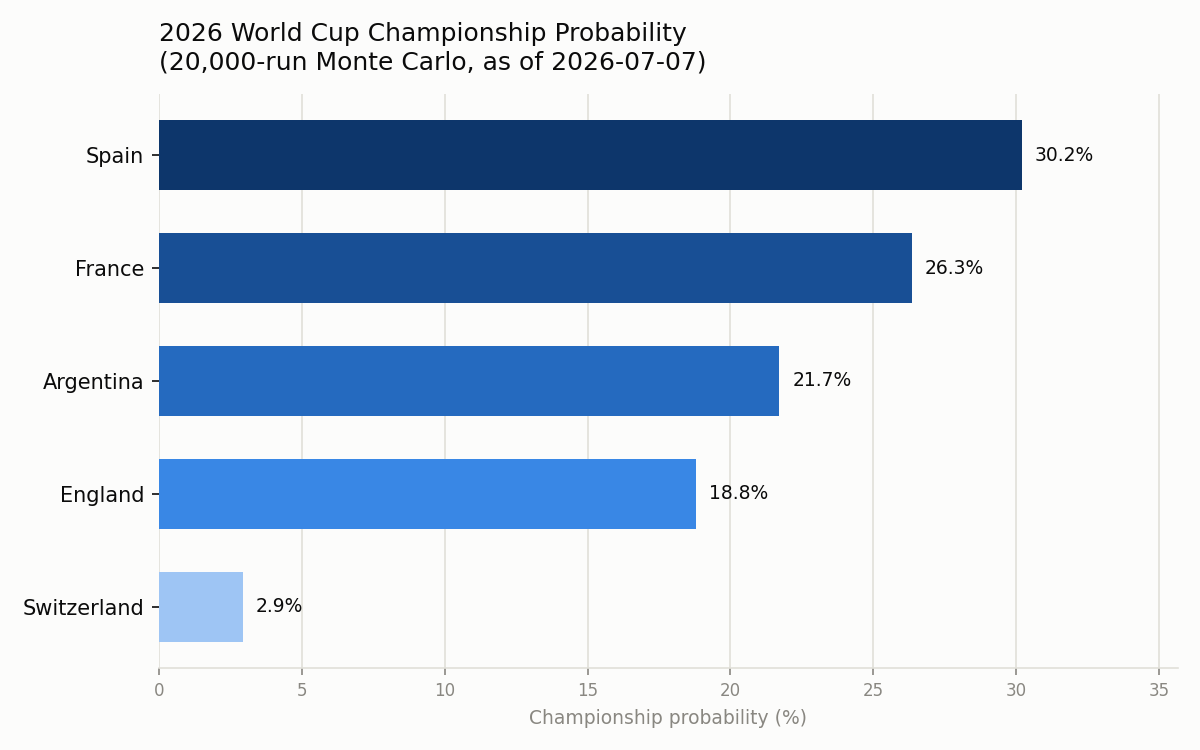
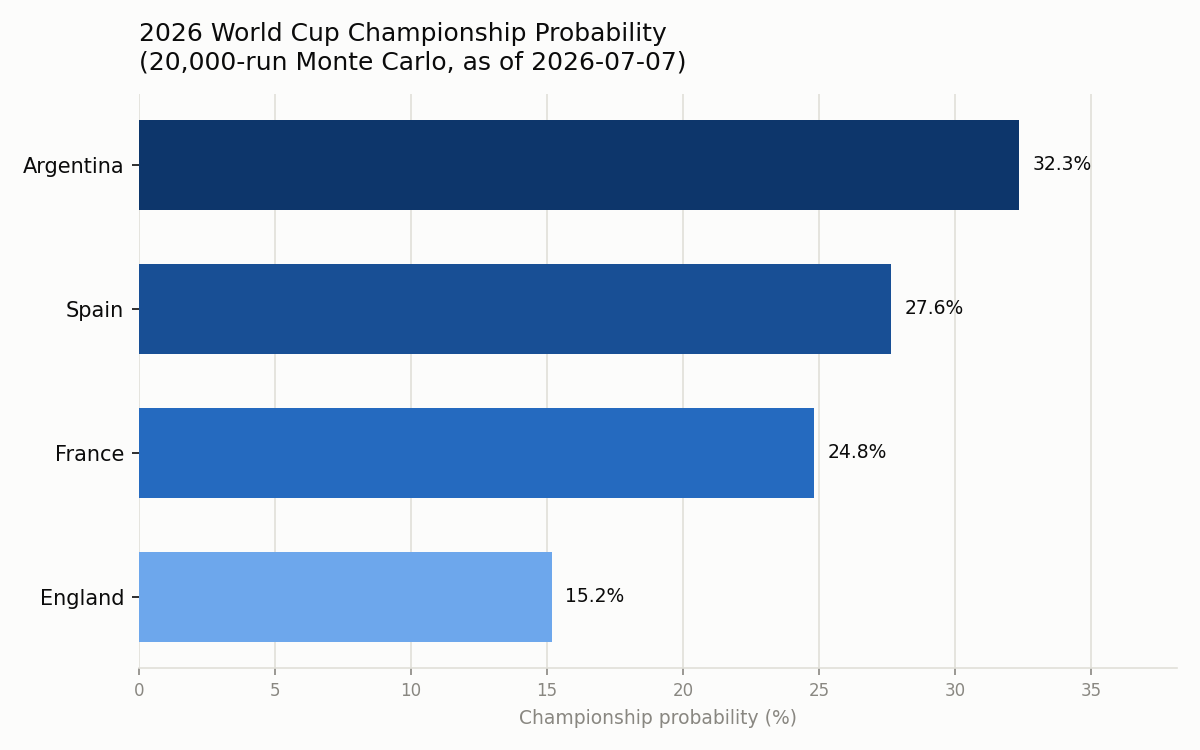
Argentina beats Switzerland 3-1 (aet), semifinals fully set
Patches in the last quarterfinal result (Alvarez and Lautaro in extra
time after Ndoye's equalizer for ten-man Switzerland), retrains,
re-runs backtest/simulation, regenerates both charts. All four
quarterfinals confirmed and the model went 4-for-4 on them.
Semifinals: France vs Spain (Jul 14), England vs Argentina (Jul 15).
Argentina now leads the championship table at 32.3% and also wins the
most-likely-bracket walk.

diff --git a/src/simulate.py b/src/simulate.py
@@ -8,17 +8,18 @@ FIFA.com, CNN, and Al Jazeera. Status as of this run (2026-07-11):
   QF1 (Boston,  Jul 9):  France 2-0 Morocco -- DONE, France advances
   QF2 (LA,      Jul 10): Spain 2-1 Belgium  -- DONE, Spain advances
   QF3 (Miami,   Jul 11): England 2-1 Norway (aet) -- DONE, England advances
-  QF4 (KC,      Jul 11/12): Argentina vs Switzerland -- pending
+  QF4 (KC,      Jul 11): Argentina 3-1 Switzerland (aet) -- DONE, Argentina advances
 
-  SF1 (Dallas,   Jul 14): France vs Winner QF2
-  SF2 (Atlanta,  Jul 15): Winner QF3 vs Winner QF4
+  SF1 (Dallas,   Jul 14): France vs Spain
+  SF2 (Atlanta,  Jul 15): England vs Argentina
 
   Final (East Rutherford, Jul 19): Winner SF1 vs Winner SF2
 
 A "slot" below is either a confirmed team name (a string) or a match still to
 be played (a tuple of two team names). Confirmed slots skip straight through;
 pending slots get a coin flip using the model's win probability each
-simulation run.
+simulation run. Both semifinal matchups are now confirmed, so the only
+remaining randomness is who wins each actual semifinal and the final.
 
 For a knockout match with no replay, a draw isn't a valid final outcome (it
 goes to extra time/penalties). We convert the model's 3-way (home/draw/away)
@@ -42,7 +43,7 @@ N_SIMULATIONS = 20000
 RNG_SEED = 42
 
 SF1_SLOTS = ["France", "Spain"]
-SF2_SLOTS = ["England", ("Argentina", "Switzerland")]
+SF2_SLOTS = ["England", "Argentina"]
 
 
 def pending_matches(slots):
@@ -122,7 +123,7 @@ def most_likely_bracket(probs):
             "France vs Morocco": {"winner": "France", "confidence": 1.0, "status": "confirmed"},
             "Spain vs Belgium": {"winner": "Spain", "confidence": 1.0, "status": "confirmed"},
             "England vs Norway": {"winner": "England", "confidence": 1.0, "status": "confirmed"},
-            "Argentina vs Switzerland": {"winner": qf4_winner, "confidence": round(qf4_conf, 3), "status": "predicted"},
+            "Argentina vs Switzerland": {"winner": "Argentina", "confidence": 1.0, "status": "confirmed"},
         },
         "semifinals": {
             f"France vs Spain": {"winner": sf1_winner, "confidence": round(sf1_conf, 3)},

diff --git a/src/load_data.py b/src/load_data.py
@@ -32,6 +32,12 @@ Sources for patched results (cross-checked across 2+ independent outlets each):
   England 2-1 Norway (aet)   - ESPN, FIFA.com, Al Jazeera, NPR, NBC News
                                 (2026-07-11); Bellingham scores in extra time
                                 to send England through
+  Argentina 3-1 Switzerland  - ESPN, FIFA.com, Al Jazeera, Yahoo Sports
+  (aet)                        (2026-07-11); Alvarez and Lautaro score in
+                                extra time after Ndoye equalized and
+                                Switzerland went down to ten men (Embolo
+                                red card); Argentina advances to face
+                                England in the semifinal
 """
 import pandas as pd
 
@@ -48,6 +54,7 @@ KNOWN_2026_RESULT_PATCHES = [
     ("2026-07-09", "France", "Morocco", 2, 0),
     ("2026-07-10", "Spain", "Belgium", 2, 1),
     ("2026-07-11", "England", "Norway", 2, 1),
+    ("2026-07-11", "Argentina", "Switzerland", 3, 1),
 ]
 
 # Round of 16 matches decided on penalties: (date, home_team, away_team, shootout_winner).

diff --git a/README.md b/README.md
@@ -11,31 +11,35 @@ real results come in, so you can watch the model get graded live instead of
 taking my word for it. No quietly editing the predictions after the fact —
 whatever it said before kickoff is what's on the record.
 
-## Where things stand right now (last updated July 12, 2026)
+## Where things stand right now (last updated July 13, 2026)
 
 The Round of 16 is done. All 16 matches played, including two nail-biters:
 Argentina came back from 2-0 down to beat Egypt 3-2, and Switzerland needed
 penalties to get past Colombia after 120 scoreless minutes.
 
-Three quarterfinals are done. **France beat Morocco 2-0** in Boston, Mbappé
-and Dembélé with the goals. **Spain beat Belgium 2-1** in Los Angeles, Mikel
-Merino settling it with an 88th-minute rebound. Then **England beat Norway
-2-1 after extra time** in Miami: Andreas Schjelderup put Norway ahead, Jude
-Bellingham equalized before half-time, and Bellingham struck again in the
-third minute of extra time off a rebounded long-range strike to send England
-through. Three of four semifinalists are set: France, Spain, and England.
+All four quarterfinals are done, and the semifinals are set. **France beat
+Morocco 2-0** in Boston, Mbappé and Dembélé with the goals. **Spain beat
+Belgium 2-1** in Los Angeles, Mikel Merino settling it with an 88th-minute
+rebound. **England beat Norway 2-1 after extra time** in Miami on a
+Bellingham brace, the winner arriving in the third minute of extra time.
+Then **Argentina beat Switzerland 3-1**, also after extra time: Mac Allister
+headed Argentina in front early, Ndoye equalized for ten-man Switzerland
+(Breel Embolo saw red on the hour), and Julian Álvarez and Lautaro Martínez
+put it away in extra time.
 
-The model called all three before kickoff: France 63.6%, Spain 64.4%,
-England 61.4%. No shocks yet.
+The model called all four before kickoff: France 63.6%, Spain 64.4%, England
+61.4%, Argentina 72.8%. Four for four, no shocks yet — the underdogs kept it
+close, but chalk held every single time.
 
-One quarterfinal left:
+The semifinal lineup, July 14-15:
 
-- **Argentina vs Switzerland**, July 11 or 12, Kansas City
+- **France vs Spain**, Dallas, July 14
+- **England vs Argentina**, Atlanta, July 15
 
 Everything below reflects that state. A scheduled job re-runs this whole
-project once the rest of the quarterfinals wrap up, again after the
-semifinals, and once more after the final, so the numbers keep catching up
-to reality without me manually babysitting it.
+project once the semifinals wrap up, and once more after the July 19 final,
+so the numbers keep catching up to reality without me manually babysitting
+it.
 
 ## Most likely bracket
 
@@ -49,7 +53,7 @@ odds overall" (that's further down). This one just walks the bracket picking
 the favorite at each stage and follows it all the way to the final — no
 hedging, no maybes, just "if chalk holds, here's your winner." See the
 championship probability section below for why the two questions can point
-at different teams. Right now they happen to agree, which won't last.
+at different teams. Right now they happen to agree, on Argentina.
 
 ## The boring stuff (How it works):
 
@@ -112,12 +116,12 @@ dataset, and guessing randomly among the three outcomes gets you 33.3%. So
 the model is doing real work, just don't expect it to be right every time.
 Football is famously hard to predict, which is most of why it's fun to watch.
 
-### This exact World Cup, 99 matches played (group stage through three completed quarterfinals)
+### This exact World Cup, 100 matches played (group stage through all four quarterfinals)
 
 | Model | Accuracy | Log-loss |
 |---|---|---|
-| Logistic regression | 64.6% | 0.847 |
-| XGBoost | **65.7%** | **0.840** |
+| Logistic regression | 65.0% | 0.844 |
+| XGBoost | **66.0%** | **0.838** |
 
 Slightly better than the generic numbers, which is a good sign, not a red
 flag. It means the model isn't just memorizing history, it's picking up on
@@ -128,9 +132,10 @@ you want to see every call, right and wrong.
 
 A couple of calls worth flagging honestly: the model correctly picked
 Argentina to beat Egypt, but leaned slightly toward Colombia in a match that
-ended level and went to penalties. It also correctly called France over
-Morocco, Spain over Belgium, and England over Norway. Draws are still the
-hardest outcome to predict in this sport, and this model is no exception.
+ended level and went to penalties. Every quarterfinal went the model's way —
+France over Morocco, Spain over Belgium, England over Norway, Argentina over
+Switzerland. Draws are still the hardest outcome to predict in this sport,
+and this model is no exception.
 
 ### Quarterfinal win probabilities
 
@@ -139,7 +144,17 @@ hardest outcome to predict in this sport, and this model is no exception.
 | France vs Morocco | **France won 2-0.** Model had France 63.6% before kickoff. Correct. |
 | Spain vs Belgium | **Spain won 2-1.** Model had Spain 64.4% before kickoff. Correct. |
 | England vs Norway | **England won 2-1 (aet).** Model had England 61.4% before kickoff. Correct. |
-| Argentina vs Switzerland | Argentina 72.8%, Switzerland 27.2% |
+| Argentina vs Switzerland | **Argentina won 3-1 (aet).** Model had Argentina 72.8% before kickoff. Correct. |
+
+### Semifinal win probabilities
+
+| Match | Model says |
+|---|---|
+| France vs Spain | Spain 52.0%, France 48.0% |
+| England vs Argentina | Argentina 62.0%, England 38.0% |
+
+France vs Spain is close to a coin flip, England vs Argentina is not. Both
+kick off July 14-15, so these are still predictions, not results.
 
 ### Championship probability (20,000 simulated tournaments)
 
@@ -147,25 +162,24 @@ hardest outcome to predict in this sport, and this model is no exception.
 
 | Team | Reaches semis | Reaches final | Wins it all |
 |---|---|---|---|
-| Spain | 100% | 52.6% | **30.2%** |
-| France | 100% | 47.4% | 26.3% |
-| Argentina | 73.4% | 44.2% | 21.7% |
-| England | 100% | 46.2% | 18.8% |
-| Switzerland | 26.6% | 9.7% | 2.9% |
+| Argentina | 100% | 62.3% | **32.3%** |
+| Spain | 100% | 52.2% | 27.6% |
+| France | 100% | 47.8% | 24.8% |
+| England | 100% | 37.7% | 15.2% |
 
 Full numbers in [`results/championship_probabilities.csv`](results/championship_probabilities.csv).
-Spain and France barely moved with England's slot locking in — this table
-was already treating England as the likely QF3 winner, so confirming it just
-tightens the numbers rather than reshuffling them. Norway drops off the
-table entirely, its share of the 20,000 simulated futures gone the moment
-the coin flip resolved against it.
+With all four quarterfinals confirmed, this table is now just two coin flips
+deep: win your semifinal, then win the final. Argentina jumped to the top
+mainly on the strength of a 62% edge over England in the semifinal — the
+biggest single-match mismatch left in the bracket. Switzerland's whole 2.9%
+share is gone the moment the final whistle blew in Kansas City.
 
-The most-likely-bracket diagram up top still agrees with the championship
-table: both point to **Spain**. That's not a rule, just where these
-particular matchups land — the two questions ("who wins the most total
-paths" vs. "who wins if every favorite wins their next game") can and will
-diverge again once Argentina vs Switzerland, the last quarterfinal, is
-decided. Full data in
+The most-likely-bracket diagram up top agrees with the championship table
+again: both point to **Argentina**. Both are answering the same question
+right now purely because there's less room left for them to disagree — with
+just four matches standing between here and the trophy, "most total paths"
+and "favorite wins every time" have far fewer ways to diverge than they did
+back when half the bracket was still uncertain. Full data in
 [`results/most_likely_bracket.json`](results/most_likely_bracket.json).
 
 ## The bracket
@@ -174,7 +188,7 @@ decided. Full data in
 QF1 Boston, Jul 9:     France 2-0 Morocco (FINAL)  -+
 QF2 LA, Jul 10:        Spain 2-1 Belgium (FINAL)   -+- SF1, Dallas, Jul 14 -+
 QF3 Miami, Jul 11:     England 2-1 Norway aet (FINAL) -+                    |
-QF4 KC, Jul 11-12:     Argentina vs Switzerland     -+- SF2, Atlanta, Jul 15 -+- Final, Jul 19, East Rutherford
+QF4 KC, Jul 11:        Argentina 3-1 Switzerland aet (FINAL) -+- SF2, Atlanta, Jul 15 -+- Final, Jul 19, East Rutherford
 ```
 
 This gets re-run after the quarterfinals wrap up, again after the
@@ -192,6 +206,7 @@ right or wrong all of this actually was — in public, with a paper trail.
 - France 2-0 Morocco, July 9: [FIFA.com](https://www.fifa.com/en/match-centre/match/17/285023/289289/400021536), [ESPN](https://www.espn.com/soccer/match/_/gameId/760510/morocco-france), [CNN](https://www.cnn.com/2026/07/09/sport/live-news/france-morocco-world-cup-score)
 - Spain 2-1 Belgium, July 10: [ESPN](https://www.espn.com/soccer/match/_/gameId/760511/belgium-spain), [CNN](https://www.cnn.com/2026/07/10/sport/live-news/spain-belgium-world-cup-score), [Al Jazeera](https://www.aljazeera.com/sports/liveblog/2026/7/10/spain-vs-belgium-live-fifa-world-cup-2026-quarterfinal), [Fox Sports](https://www.foxsports.com/soccer/fifa-world-cup-men-spain-vs-belgium-jul-10-2026-game-boxscore-607928)
 - England 2-1 Norway (aet), July 11: [ESPN](https://www.espn.com/soccer/match/_/gameId/760512/england-norway), [FIFA.com](https://www.fifa.com/en/match-centre/match/17/285023/289289/400021539), [Al Jazeera](https://www.aljazeera.com/sports/liveblog/2026/7/11/england-vs-norway-live-fifa-world-cup-2026-quarterfinal), [NPR](https://www.npr.org/2026/07/11/nx-s1-5890169/2026-world-cup-fifa-england-norway-quarterfinal)
+- Argentina 3-1 Switzerland (aet), July 11: [ESPN](https://www.espn.com/soccer/match/_/gameId/760513/switzerland-argentina), [FIFA.com](https://www.fifa.com/en/tournaments/mens/worldcup/canadamexicousa2026/articles/argentina-switzerland-match-report-highlights), [Al Jazeera](https://www.aljazeera.com/sports/2026/7/12/argentina-defeat-switzerland-to-set-up-england-semifinal-at-world-cup-2026), [Yahoo Sports](https://sports.yahoo.com/articles/argentina-vs-switzerland-live-score-200002967.html)
 - Quarterfinal bracket: [Olympics.com](https://www.olympics.com/en/news/fifa-world-cup-2026-bracket-quarter-finals-full-schedule-live-updates), [Fox Sports](https://www.foxsports.com/stories/soccer/world-cup-bracket-live-quarterfinals-update-standings)
 
 ## Running it yourself